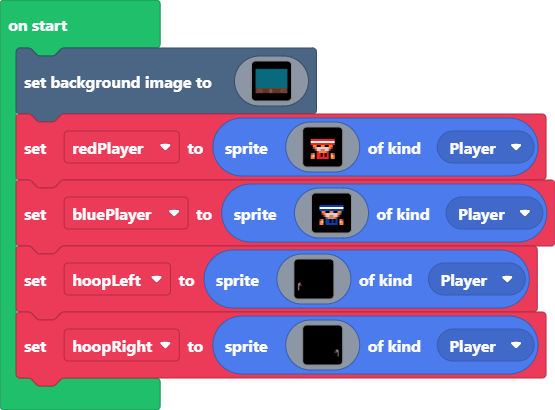
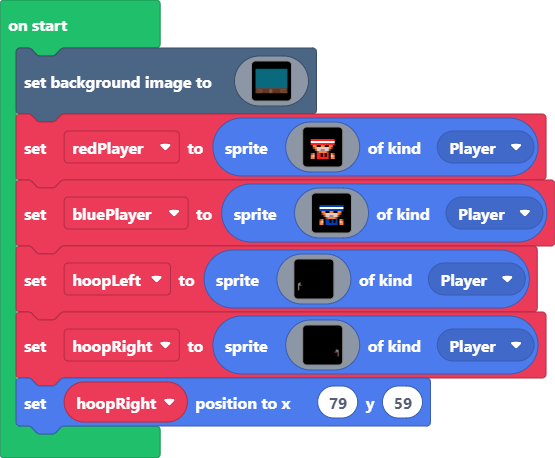
Update main.blocks, main.ts

diff --git a/main.ts b/main.ts
@@ -366,3 +366,4 @@ let hoopRight = sprites.create(img`
     ................................................................................................................................................................
     ................................................................................................................................................................
     `, SpriteKind.Player)
+hoopRight.setPosition(79, 59)
